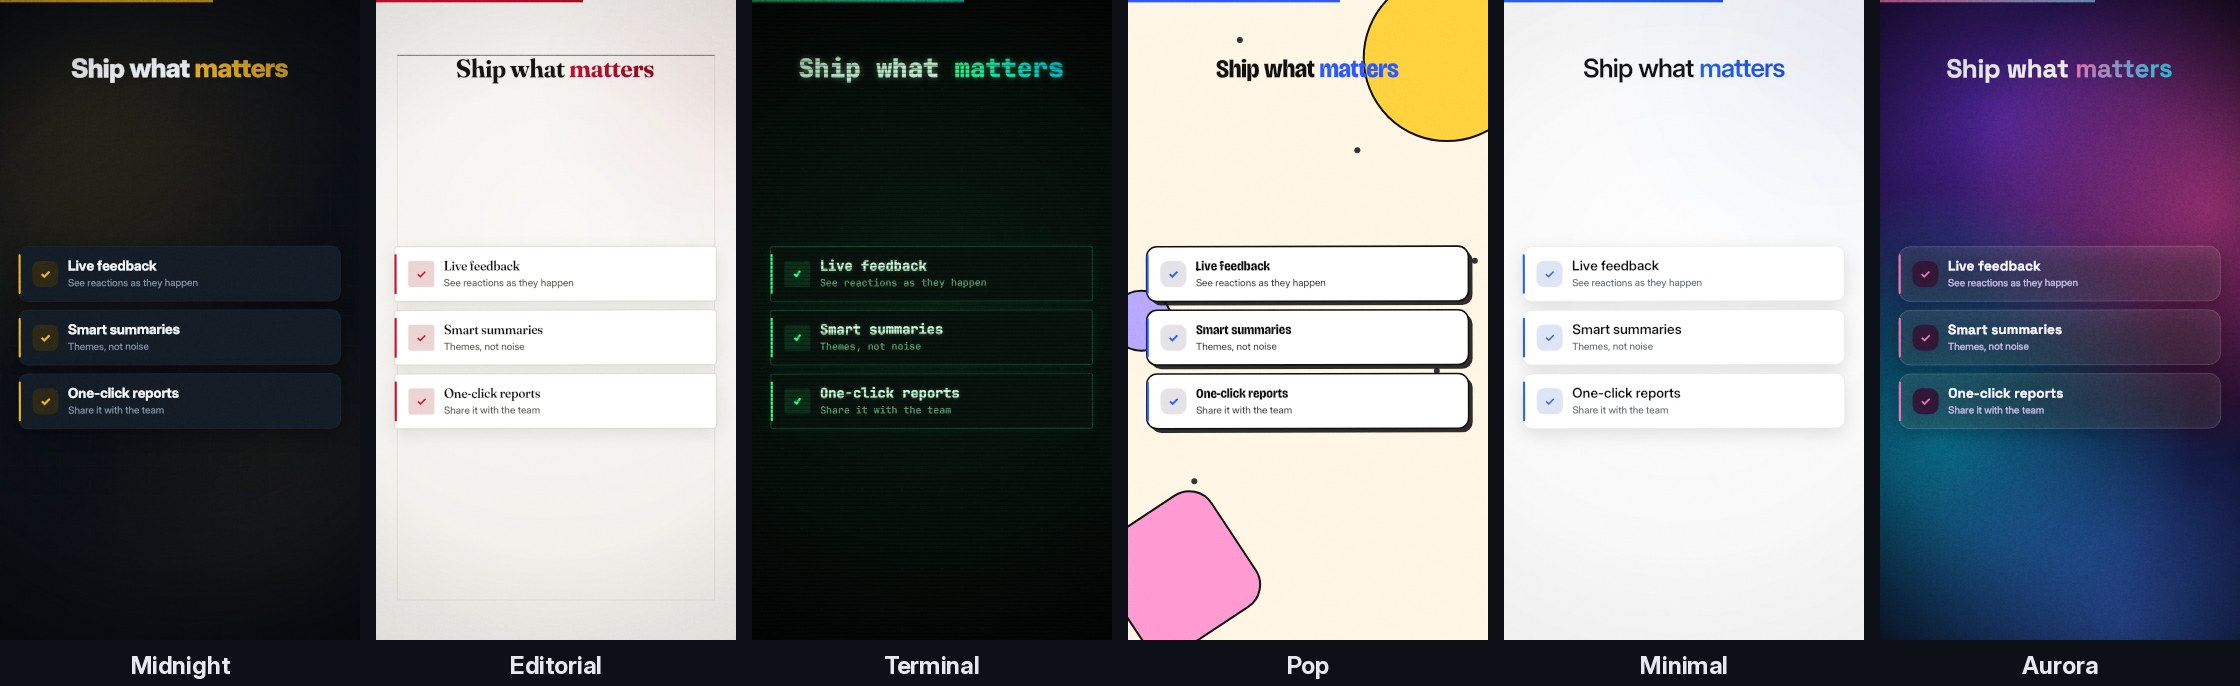
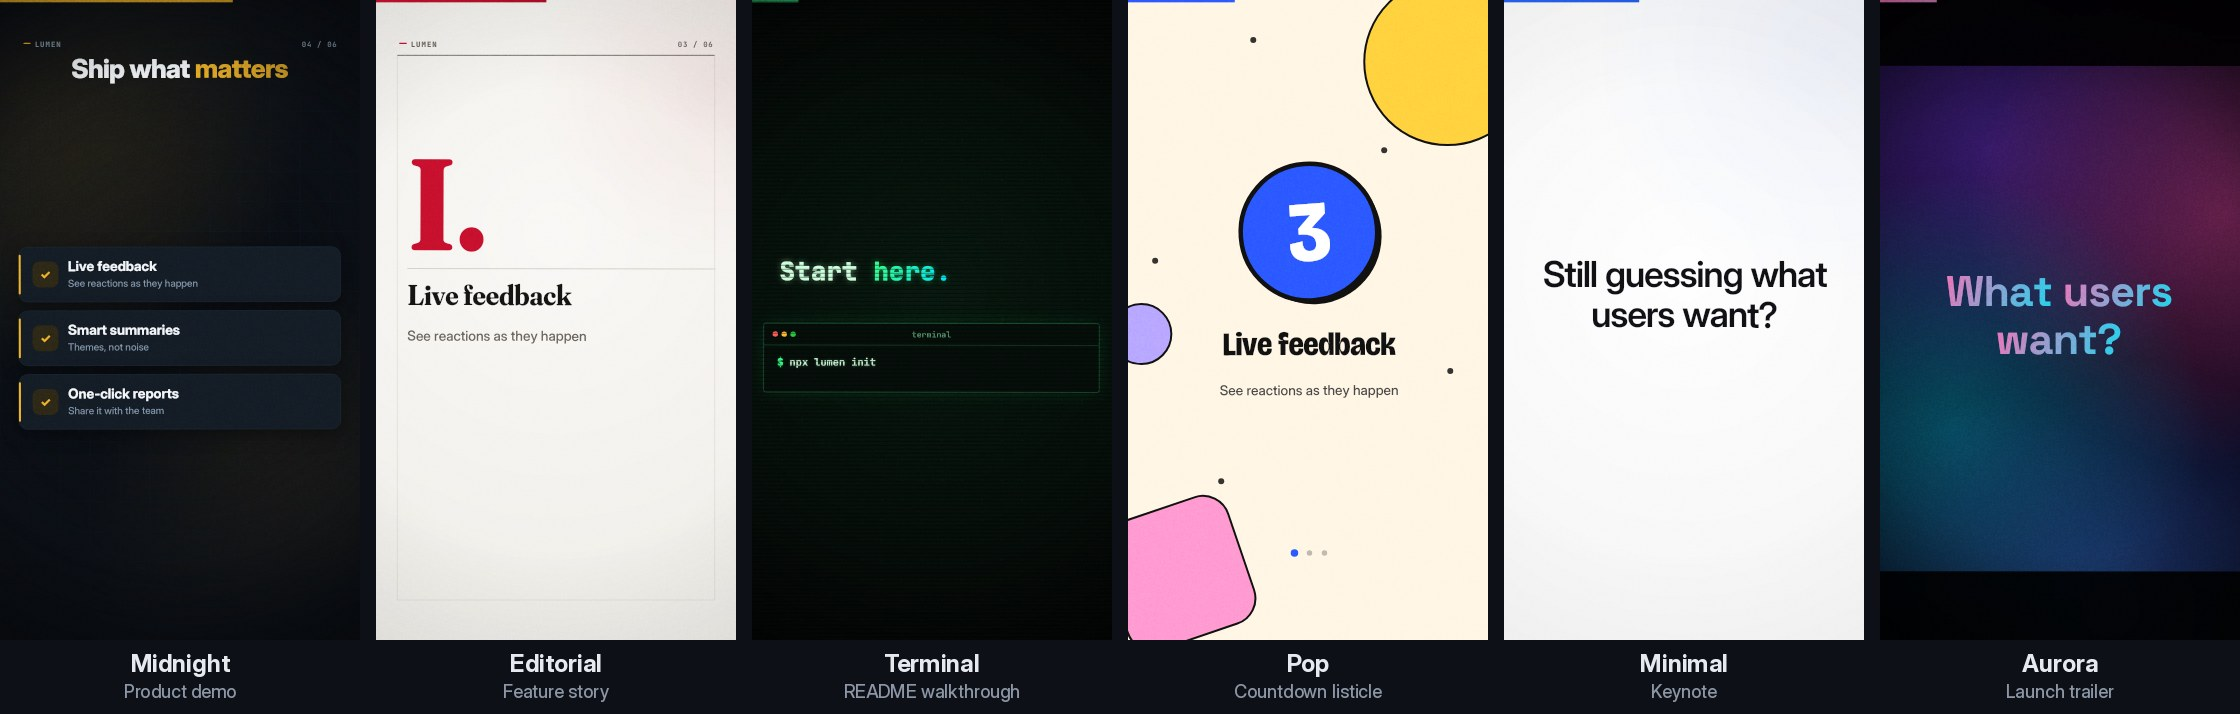
Updated Templates

diff --git a/CONTRIBUTING.md b/CONTRIBUTING.md
@@ -24,5 +24,9 @@ the provider and model you use, and `/api/status` output. Remove API keys before
 - New templates go in `reelsmith/engine/templates.py`: copy an entry, change its palette, fonts, shape, background
   style, transition, music and tone. A new background style is a `_bg_<name>` method in `engine/timeline.py`. Run the
   tests: they render every scene type in every template.
+- A template's story structure lives in `reelsmith/blueprints.py`: which scene types it uses (`ALLOWED`), its
+  opening scene (`OPENING`), how many repeated scenes fit a length (`counts`), what the model is told
+  (`blueprint_text`), how other scene types are converted (`_convert`) and how the built-in planner fills it
+  (`assemble`). `tests/` checks that every template's plan opens correctly and that all six differ.
 - Content comes from language models, so never assume a string length: use `fit_size`, `fit_block` or `headline`.
 - The web app is a single file with no build step (`reelsmith/web/index.html`); please keep it that way.
